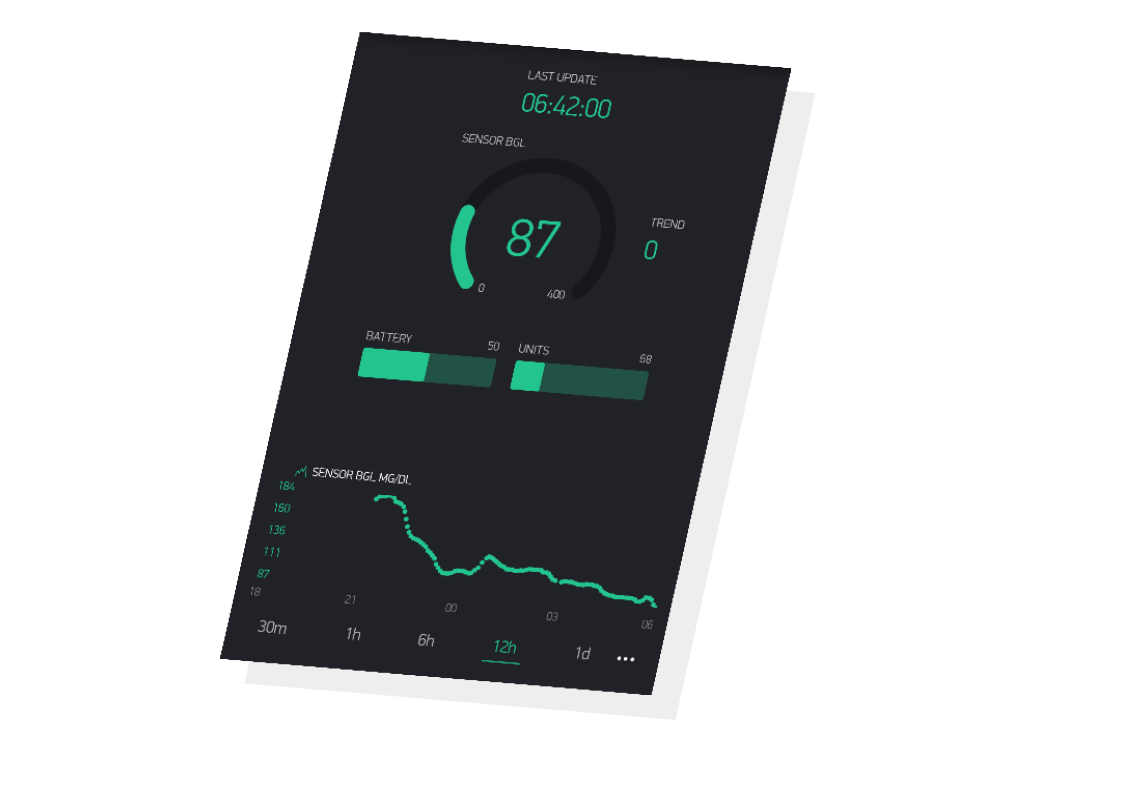
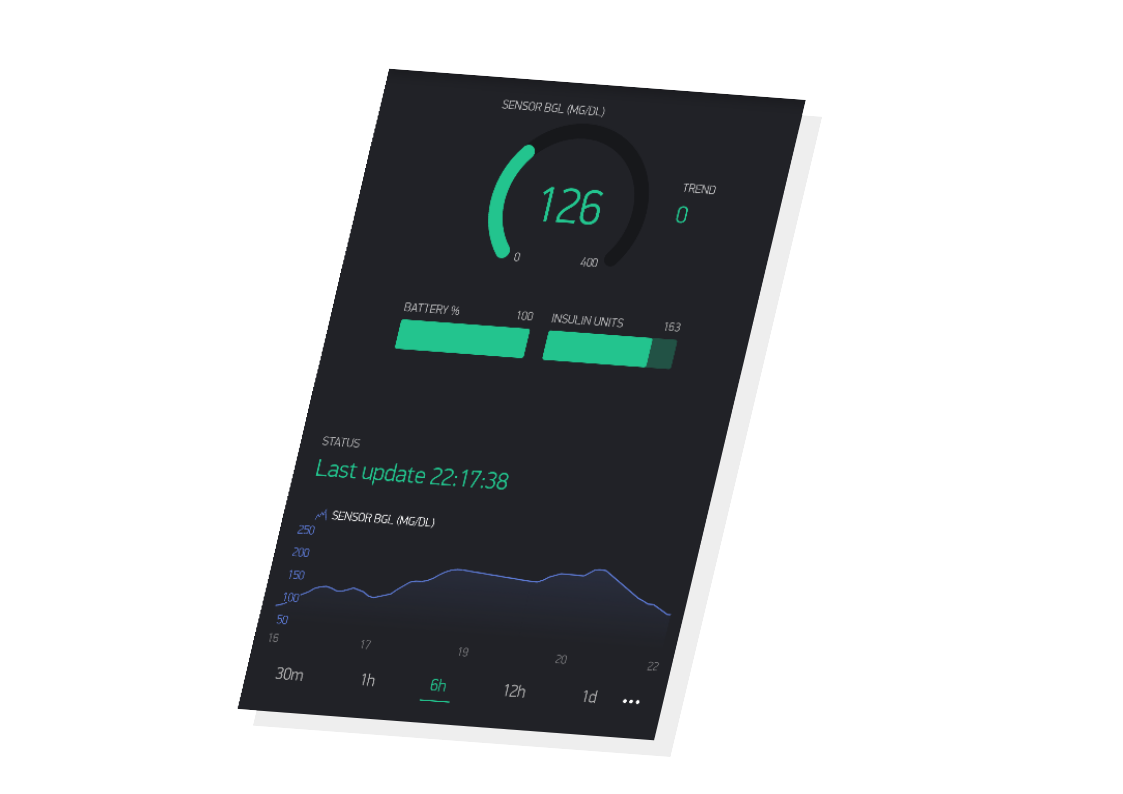
Update README

diff --git a/README.md b/README.md
@@ -2,11 +2,11 @@
 
 ## What it is
 
-DD-Guard is an application which adds the possibility of remote real time pump data and sensor monitoring via Smartphone app to the "*[Medtronic Minimed 670G](https://www.medtronicdiabetes.com/products/minimed-670g-insulin-pump-system)*" insulin pump system. It intends to be simple to use and easy to setup.
+DD-Guard provides real time blood glucose and pump data for the "*[Medtronic Minimed 670G](https://www.medtronicdiabetes.com/products/minimed-670g-insulin-pump-system)*"  insulin pump system directly to your smart phone. It intends to be simple to use and easy to setup.
 
 ![ddguard-app-screen](img/ddguard-app-screen.png)
 
-The 670G pump features continuous blood glucose measurements (CGM) via the "*Guardian Link 3*" sensor and stores the data on the device. The data can be viewed on the local display. However to date Medtronic provides no means of displaying the 670Gs real time data remotely on a mobile device. And that's exactly the functionality that DD-Guard adds to the system, so care givers can watch immediately the most important data from the sensor and the pump conveniently on their smartphones, wherever they are.
+The 670G pump features continuous blood glucose measurements (CGM) via the "*Guardian Link 3*" sensor and stores the data on the device. The data can be viewed on the local display. However to date Medtronic provides no means of displaying the 670Gs real time data remotely on a mobile device. And that's exactly the functionality that DD-Guard adds to the system, so care givers can watch immediately the most important data from the sensor and the pump conveniently on their smart phones, wherever they are.
 
 DD-Guard was inspired by the [NightScout](http://www.nightscout.info) project and the #WeAreNotWaiting community which promotes DIY efforts to take advantage of the latest technology to make life easier for people with Type-1 Diabetes and their care givers.
 
@@ -14,17 +14,25 @@ DD-Guard was inspired by the [NightScout](http://www.nightscout.info) project an
 
 ## Project Status
 
-Currently I have implemented a working prototype od DD-Guard which I use in the real world to monitor my daughters blood glucose level and pump status at night when she is in her room where the gateway is located. On the app screen of my mobile phone I get updated data for blood glucose level (including history graph) and trend, remaining insulin units in the pumps tank and battery status. Basal rate and active insulin data still need to be added.
+Currently I have implemented a working prototype of DD-Guard which I use in the real world to monitor my daughters blood glucose level and pump status at night when she is in her room where the gateway is located. On the app screen of my mobile phone I get updated data for blood glucose level (including history graph) and trend, remaining insulin units in the pumps tank and battery status. Basal rate and active insulin data could be added. The displayed data is color coded according to the actual conditions so it is immediately clear if there is anything critical which needs to be acted upon.
 
-It would also be possible for her to take the small gateway device with her when she is going to spend the night at a friends house, so I could still monitor her data. The gateway works as long as it has a power supply and a Wifi network connection.
+It would also be possible for my daughter to take the small gateway device with her when she is going to spend the night at a friends house, so I could still monitor her data. The gateway works as long as it has a power supply and a Wifi network connection.
 
 At the moment the gateway is not mobile, so cannot provide the data when it is on the move. This is something I am planning to do.
 
 
 
+## Screenshots
+
+These are some typical screenshots form the smartphone app.
+
+![Screenshots](img/ddguard-screenshots.png)
+
+
+
 ## How it works
 
-The basic idea is to receive the real time data which was collected by the 670G with the DD-Guard gateway via the "*Contour Next Link* 2.4" glucose meter which operates as the radio bridge and then uploads the data to the cloud and a mobile device where it is displayed eventually with the DD-Guard app.
+The basic idea is to receive the real time data which was collected by the 670G with the DD-Guard gateway via the "*Contour Next Link* 2.4" glucose meter which operates as the radio bridge and then uploads the data to the cloud and a mobile device where it is eventually displayed with the DD-Guard app.
 
 The DD-Guard gateway is a small single board computer, like the Raspberry Pi where the radio bridge is plugged into one of its USB ports. Cloud connection is established via the gateways Wifi.
 
@@ -45,6 +53,10 @@ In order to use DD-Guard you need the following items:
 If the person you build this system for is a T1D patient on insulin pump therapy you probably already have the first 3 items if you chose the Medtronic device. And chances are good you already have a smartphone.
 
 So all you need to do is build your own gateway. It needs a USB port to connect to the radio bridge and Wifi to connect to the cloud.
+
+
+
+![ddguard-gateway](img/ddguard-gw-sm.png)
 
 
 
